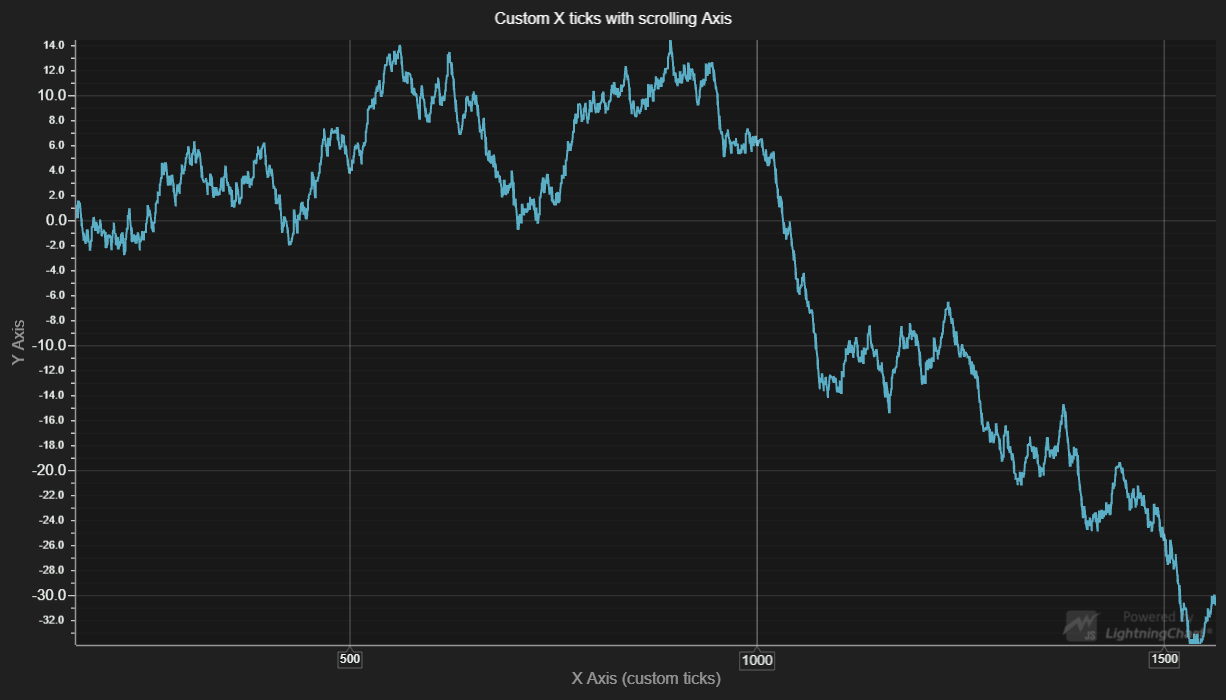
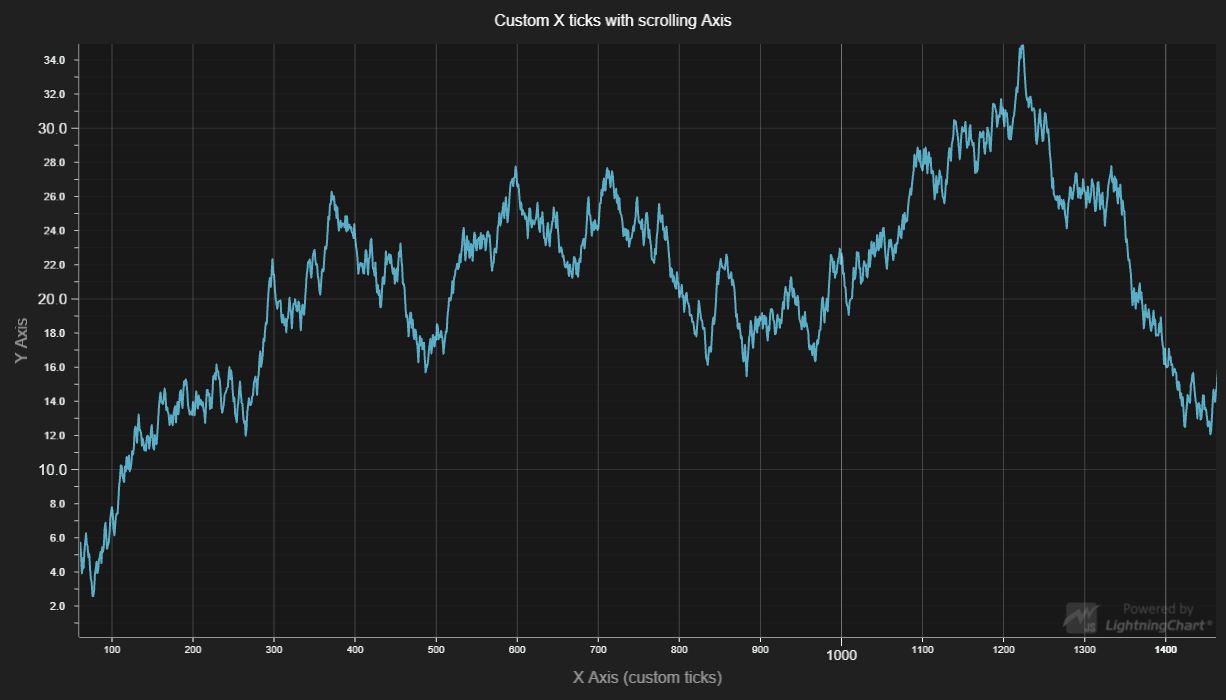
LCJS 3.0.0

diff --git a/src/index.js b/src/index.js
@@ -7,13 +7,12 @@ const lcjs = require('@arction/lcjs')
 // Extract required parts from LightningChartJS.
 const {
     lightningChart,
-    DataPatterns,
     AxisScrollStrategies,
     SolidLine,
     SolidFill,
     ColorHEX,
-    AutoCursorModes,
     AxisTickStrategies,
+    UIElementBuilders,
     Themes,
 } = lcjs
 
@@ -28,8 +27,16 @@ const chart = lightningChart().ChartXY({
 })
     .setTitle('Custom X ticks with scrolling Axis')
 
-// Add line series to visualize the data received
-const series = chart.addLineSeries({ dataPattern: DataPatterns.horizontalProgressive })
+// Create line series optimized for regular progressive X data.
+const series = chart.addLineSeries({
+    dataPattern: {
+        // pattern: 'ProgressiveX' => Each consecutive data point has increased X coordinate.
+        pattern: 'ProgressiveX',
+        // regularProgressiveStep: true => The X step between each consecutive data point is regular (for example, always `1.0`).
+        regularProgressiveStep: true,
+    }
+ })
+
 // Style the series
 series
     .setStrokeStyle(new SolidLine({
@@ -37,8 +44,6 @@ series
         fillStyle: new SolidFill({ color: ColorHEX('#5aafc7') })
     }))
     .setMouseInteractions(false)
-
-chart.setAutoCursorMode(AutoCursorModes.disabled)
 
 // * Manage X Axis ticks with custom logic *
 // Disable default X ticks.
@@ -48,25 +53,20 @@ const xAxis = chart.getDefaultAxisX()
 // Define style for custom ticks.
 const gridStrokeStyleMajor = new SolidLine({ thickness: 1, fillStyle: new SolidFill({ color: ColorHEX('#fff').setA(100) }) })
 const gridStrokeStyleMinor = new SolidLine({ thickness: 1, fillStyle: new SolidFill({ color: ColorHEX('#fff').setA(50) }) })
-const backgroundStrokeStyle = new SolidLine({ thickness: 1, fillStyle: new SolidFill({color: ColorHEX('#fff').setA(50)}) })
 
 const addCustomTickX = (pos, isMinor) => {
-    const tick = xAxis.addCustomTick()
+    const tick = xAxis.addCustomTick(UIElementBuilders.AxisTick)
         // Set tick text.
         .setTextFormatter(() => String(pos))
         // Set tick location.
         .setValue(pos)
         // Style tick.
         .setMarker(marker => marker
-            .setFont(font => font
-                .setSize( isMinor ? 12 : 14 )
-            )
-            .setBackground(background => background
-                .setStrokeStyle(backgroundStrokeStyle)
-                // "tick length" as pixels.
-                .setPointerLength(6)
+            .setTextFont(font => font
+                .setSize( isMinor ? 10 : 14 )
             )
         )
+        .setTickLength( isMinor ? 4 : 8 )
         .setGridStrokeStyle(isMinor ? gridStrokeStyleMinor : gridStrokeStyleMajor)
     customTicks.push(tick)
     return tick
@@ -82,8 +82,8 @@ const createTicksInRangeX = (start, end) => {
             addCustomTickX(majorTickPos, false)
         }
     }
-    // Major ticks every 500 units, but not at same interval as major ticks.
-    const minorTickInterval = 500
+    // Major ticks every 100 units, but not at same interval as major ticks.
+    const minorTickInterval = 100
     for (let minorTickPos = start - (start % minorTickInterval); minorTickPos <= end; minorTickPos += minorTickInterval) {
         if (minorTickPos >= start && minorTickPos % majorTickInterval !== 0) {
             addCustomTickX(minorTickPos, true)

diff --git a/README.md b/README.md
@@ -34,6 +34,7 @@ Both major and minor ticks on X Axis are created in application code, and destro
 * [Axis tick strategies]
 * [Custom tick]
 * [Pointable background]
+* [Data patterns]
 * [Solid FillStyle]
 * [Solid LineStyle]
 * [RGBA color factory]
@@ -60,13 +61,14 @@ Direct developer email support can be purchased through a [Support Plan][4] or b
 © Arction Ltd 2009-2020. All rights reserved.
 
 
-[XY cartesian chart]: https://www.arction.com/lightningchart-js-api-documentation/v2.2.0/classes/chartxy.html
-[Line series]: https://www.arction.com/lightningchart-js-api-documentation/v2.2.0/classes/lineseries.html
-[Axis]: https://www.arction.com/lightningchart-js-api-documentation/v2.2.0/classes/axis.html
-[Axis tick strategies]: https://www.arction.com/lightningchart-js-api-documentation/v2.2.0/globals.html#axistickstrategies
-[Custom tick]: https://www.arction.com/lightningchart-js-api-documentation/v2.2.0/classes/customtick.html
-[Pointable background]: https://www.arction.com/lightningchart-js-api-documentation/v2.2.0/interfaces/pointablebackground.html
-[Solid FillStyle]: https://www.arction.com/lightningchart-js-api-documentation/v2.2.0/classes/solidfill.html
-[Solid LineStyle]: https://www.arction.com/lightningchart-js-api-documentation/v2.2.0/classes/solidline.html
-[RGBA color factory]: https://www.arction.com/lightningchart-js-api-documentation/v2.2.0/globals.html#colorrgba
+[XY cartesian chart]: https://www.arction.com/lightningchart-js-api-documentation/v3.0.0/classes/chartxy.html
+[Line series]: https://www.arction.com/lightningchart-js-api-documentation/v3.0.0/classes/lineseries.html
+[Axis]: https://www.arction.com/lightningchart-js-api-documentation/v3.0.0/classes/axis.html
+[Axis tick strategies]: https://www.arction.com/lightningchart-js-api-documentation/v3.0.0/globals.html#axistickstrategies
+[Custom tick]: https://www.arction.com/lightningchart-js-api-documentation/v3.0.0/classes/customtick.html
+[Pointable background]: https://www.arction.com/lightningchart-js-api-documentation/v3.0.0/interfaces/pointablebackground.html
+[Data patterns]: https://www.arction.com/lightningchart-js-api-documentation/v3.0.0/interfaces/datapattern.html
+[Solid FillStyle]: https://www.arction.com/lightningchart-js-api-documentation/v3.0.0/classes/solidfill.html
+[Solid LineStyle]: https://www.arction.com/lightningchart-js-api-documentation/v3.0.0/classes/solidline.html
+[RGBA color factory]: https://www.arction.com/lightningchart-js-api-documentation/v3.0.0/globals.html#colorrgba
 
